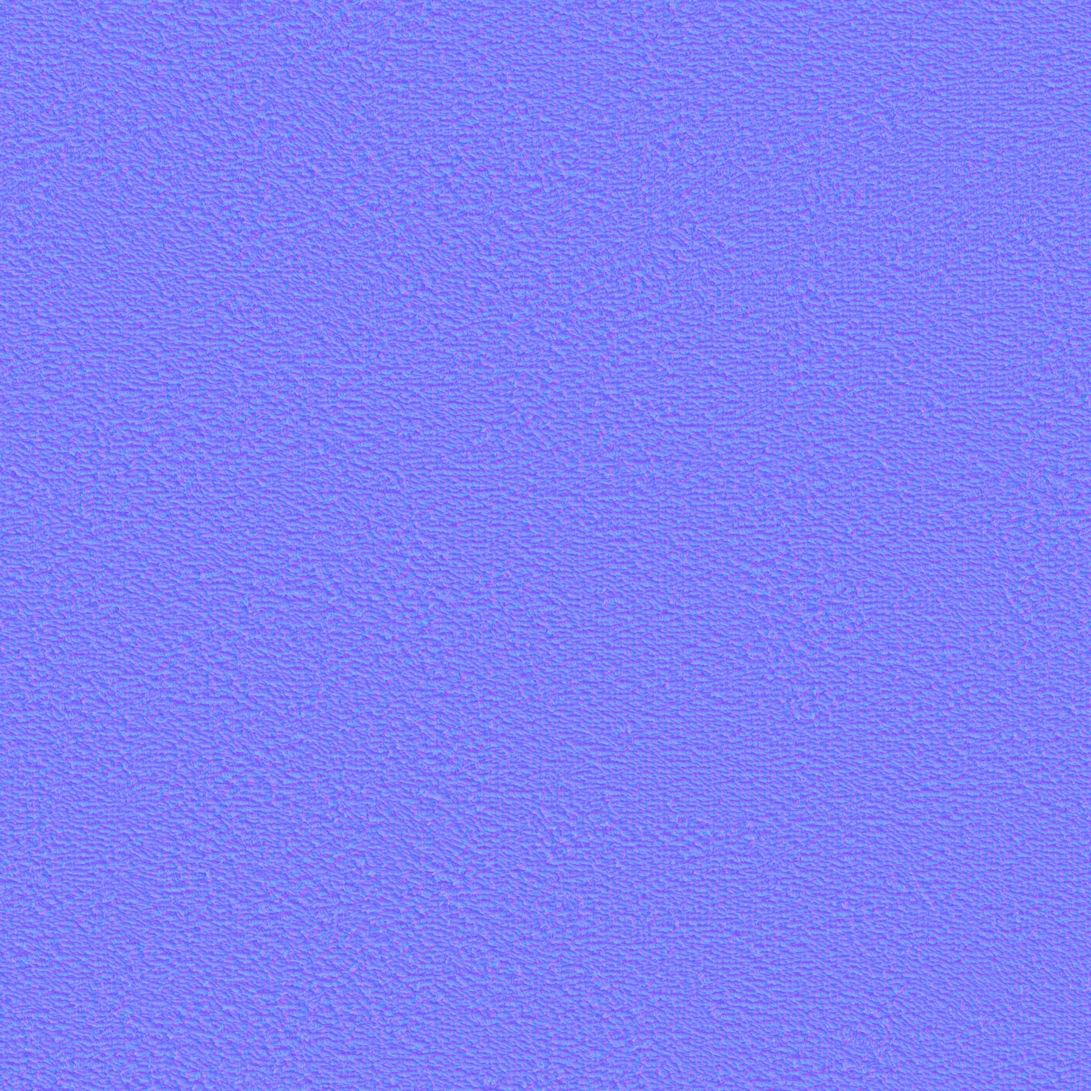
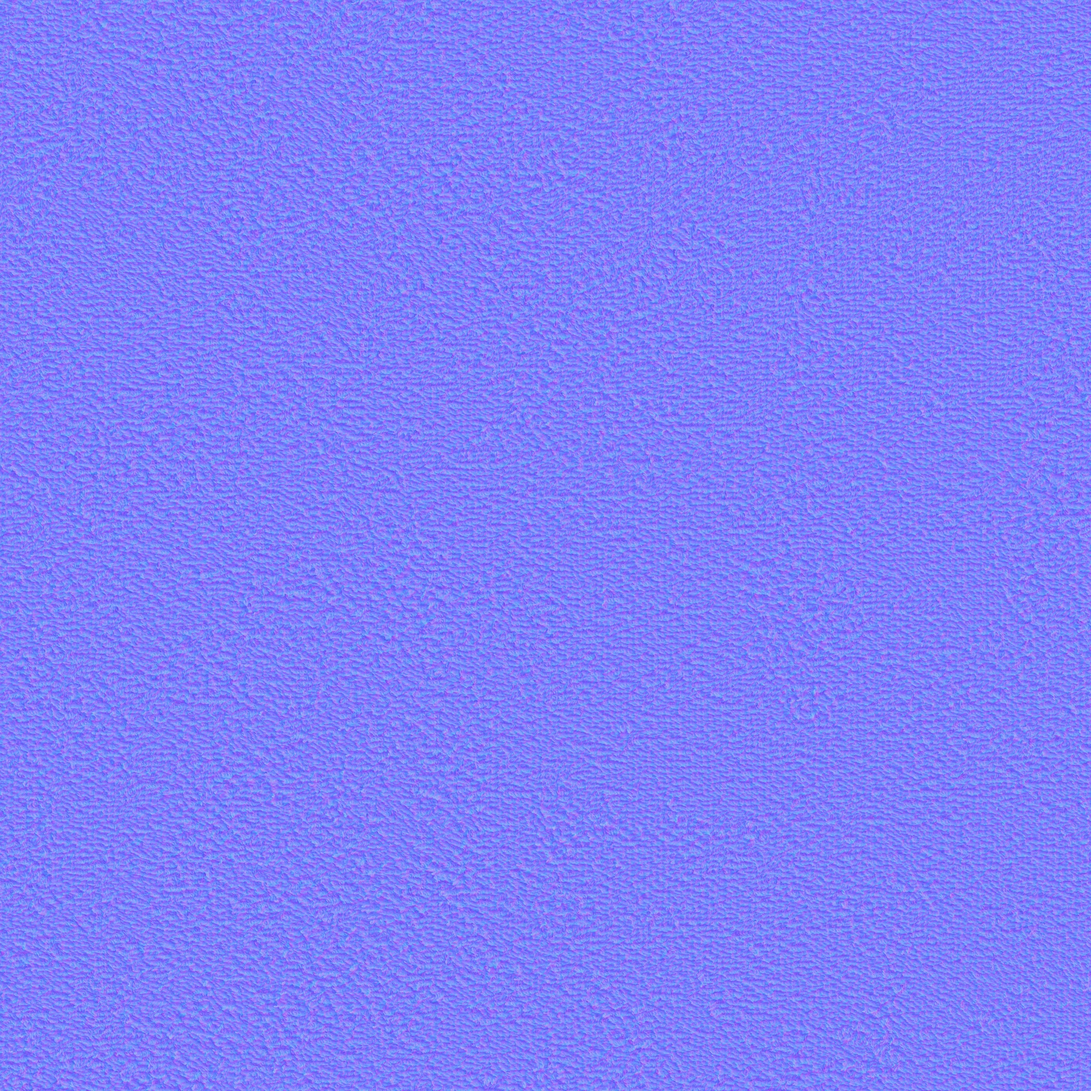
Photograph the coin's metal, and give the leather its 2K grain
The coin now carries ambientCG's Metal007 (CC0) under its baked and
procedural weathering: one RGBA tile with the normal's slopes in the coin's
convention, the roughness and the albedo, the last two scaled to a mean of
half grey so they vary whatever polish and colour each metal has. The
photograph's gold is never used; the shader recolours the tile per metal,
so silver, bronze, copper, iron, electrum and rose gold wear the same
scratches in their own colour. Sampled like the micro tile, by x and z on
the faces and by the distance around and y on the edge, with two whole
tiles around the edge so the wrap has no seam. Three settings — bump, tint
and roughness — say how much of it shows; without the map built the shader
reads a neutral texel and the coin is as it was. Rendered on coin:look for
gold, silver and copper with and without it.

The leather has a 2K variant for the high tier, built from the 4K
download; on the reveal shot its pebble grain resolves where the 1024 map
is smooth, a mean difference of 6 levels across the wall. The felt's 2K
variant is rebuilt from the 4K cloth. The high tier now fetches 5.9MB of
2K maps; the other tiers 1.4MB of 1K ones.

Claude-Session: https://claude.ai/code/session_01DY7GLHKDYbddaKqhU954QH

diff --git a/src/scene/coin-material.ts b/src/scene/coin-material.ts
@@ -63,6 +63,14 @@ export interface CoinSettings {
   pits: number;
   /** The micro tile's strength: the grain, micro-scratches and pores under everything. */
   micro: number;
+  /**
+   * The photographed metal (public/dice/coin-metal.webp, from ambientCG's
+   * Metal007): how much its scratches tilt the normal, vary the tone, and
+   * vary the roughness. Its own colour is not used; each metal's is.
+   */
+  metalBump: number;
+  metalTint: number;
+  metalRough: number;
 }
 
 export const DEFAULT_COIN: CoinSettings = {
@@ -74,7 +82,17 @@ export const DEFAULT_COIN: CoinSettings = {
   patina: 1.0,
   pits: 0.6,
   micro: 1.0,
+  // The photograph's normal is nearly flat — its slopes are a few hundredths —
+  // so it is pushed; its tone and roughness vary by about 5% and are used as
+  // they are, scaled to a mean of one.
+  metalBump: 3.0,
+  metalTint: 1.0,
+  metalRough: 0.5,
 };
+
+/** One tile of the photographed metal across this many coin units on the faces. */
+const COIN_METAL_TILE_UNITS = 2.5;
+const COIN_METAL_SLOPE_MAX = 0.1;
 
 /**
  * What the coin is struck from. Each metal is a reflectance — the colour a
@@ -195,6 +213,11 @@ const COIN_SLOPE_MAX = 1.5;
 const COIN_MICRO_SLOPE_MAX = 0.5;
 /** Micro tiles around the edge; the tile's size follows from the radius. Matches the bake. */
 const COIN_MICRO_TILES_AROUND = 34;
+/**
+ * The photographed metal wraps the edge in whole tiles too: the circumference
+ * is 3.97 units, and at 2.5 a tile that rounds to two.
+ */
+const COIN_METAL_TILES_AROUND = 2;
 
 const COIN_VERTEX_PARS = /* glsl */ `
 varying vec3 vCoinPosition;
@@ -224,6 +247,7 @@ const COIN_FRAGMENT_PARS = /* glsl */ `
 #define COIN_WEAR_RANGE ${COIN_WEAR_RANGE.toFixed(3)}
 #define COIN_SLOPE_MAX ${COIN_SLOPE_MAX.toFixed(3)}
 #define COIN_MICRO_SLOPE_MAX ${COIN_MICRO_SLOPE_MAX.toFixed(3)}
+#define COIN_METAL_SLOPE_MAX ${COIN_METAL_SLOPE_MAX.toFixed(3)}
 varying vec3 vCoinPosition;
 varying vec2 vCoinUv;
 varying vec3 vCoinRadial;
@@ -238,6 +262,11 @@ uniform float uCoinScratches;
 uniform float uCoinPatina;
 uniform float uCoinPits;
 uniform float uCoinMicro;
+uniform sampler2D uCoinMetalMap;
+uniform float uCoinMetalTile;
+uniform float uCoinMetalBump;
+uniform float uCoinMetalTint;
+uniform float uCoinMetalRough;
 uniform float uCoinHalfThickness;
 uniform float uCoinRadius;
 uniform float uCoinMicroTile;
@@ -439,6 +468,15 @@ vec4 coinMicro = uCoinMicro * mix(
   coinSideness
 );
 coinSurface += vec4(coinMicro.xy, 0.0, 0.0);
+// And the photographed metal, sampled the same two ways: its scratches tilt
+// the normal, and its tone and roughness (alpha and blue, each about a mean
+// of one half) vary the metal's own.
+vec2 coinMetalFaceUv = coinP.xz / uCoinMetalTile;
+vec2 coinMetalEdgeUv = vec2((coinAngle / (2.0 * PI)) * float(${COIN_METAL_TILES_AROUND}), coinP.y / uCoinMetalTile);
+vec4 coinMetalTexel = mix(texture2D(uCoinMetalMap, coinMetalFaceUv), texture2D(uCoinMetalMap, coinMetalEdgeUv), coinSideness);
+coinSurface.xy += (coinMetalTexel.rg * 2.0 - 1.0) * COIN_METAL_SLOPE_MAX * uCoinMetalBump;
+float coinMetalTone = mix(1.0, coinMetalTexel.a * 2.0, uCoinMetalTint);
+float coinMetalRough = (coinMetalTexel.b - 0.5) * uCoinMetalRough;
 float coinScratch = uCoinScratches * coinSurface.z;
 float coinPit = uCoinPits * coinSurface.w;
 float coinMicroMark = 0.7 * coinMicro.z + coinMicro.w;
@@ -478,6 +516,7 @@ coinBase *= 1.0 - 0.12 * coinScratch;
 // inside out. This puts the clean field below the relief and the grime below that.
 coinBase *= 1.0 + 0.12 * coinExposed;
 coinBase *= 1.0 - 0.48 * coinCavity;
+coinBase *= coinMetalTone;
 diffuseColor.rgb = coinBase;
 `;
 
@@ -495,6 +534,7 @@ roughnessFactor += 0.16 * coinScratch + 0.3 * coinPit + 0.16 * coinPatina + 0.12
 // and the edge is lit flat by the room, where a tenth of roughness is a big
 // step in brightness and the mottle drew as camouflage.
 roughnessFactor += coinRoughnessDetail(coinP, coinFootprint) * (1.0 - 0.6 * coinSideness);
+roughnessFactor += coinMetalRough;
 roughnessFactor = mix(roughnessFactor, 0.85, coinGrime);
 // Never a true mirror. Much below this the domed edges of the relief, which
 // face every direction, find the exact mirror angle of the spotlight somewhere
@@ -555,6 +595,10 @@ export function createCoinMaterial(
   anisotropy = 8,
 ): CoinMaterial {
   const coin: CoinSettings = { ...DEFAULT_COIN, ...settings };
+  // Until the photographed metal is in, and if it never is: a texel that
+  // tilts nothing and varies nothing.
+  const neutralMetal = new THREE.DataTexture(new Uint8Array([128, 128, 128, 128]), 1, 1, THREE.RGBAFormat);
+  neutralMetal.needsUpdate = true;
   // Clean until the map arrives: a single texel as far from any wall as the map
   // can say.
   const clean = new THREE.DataTexture(new Uint8Array([255, 255, 255, 255]), 1, 1);
@@ -570,6 +614,11 @@ export function createCoinMaterial(
     uCoinRadius: { value: radius },
     uCoinMicroTile: { value: (2 * Math.PI * radius) / COIN_MICRO_TILES_AROUND },
     uCoinMicro: { value: coin.micro },
+    uCoinMetalMap: { value: neutralMetal as THREE.Texture },
+    uCoinMetalTile: { value: COIN_METAL_TILE_UNITS },
+    uCoinMetalBump: { value: coin.metalBump },
+    uCoinMetalTint: { value: coin.metalTint },
+    uCoinMetalRough: { value: coin.metalRough },
     uCoinGrime: { value: coin.grime },
     uCoinPolish: { value: coin.polish },
     uCoinWearAmount: { value: coin.wear },
@@ -644,6 +693,13 @@ export function createCoinMaterial(
       t.wrapT = THREE.RepeatWrapping;
       uniforms.uCoinMicroMap.value = t;
     }),
+    load('coin-metal.webp', THREE.RepeatWrapping, true)
+      .then((t) => {
+        t.wrapT = THREE.RepeatWrapping;
+        uniforms.uCoinMetalMap.value = t;
+      })
+      // Not built: the neutral texel stays, and the coin is as it was.
+      .catch(() => undefined),
   ]).then(() => undefined);
 
   return {
@@ -661,6 +717,9 @@ export function createCoinMaterial(
       uniforms.uCoinScratches.value = coin.scratches;
       uniforms.uCoinPits.value = coin.pits;
       uniforms.uCoinMicro.value = coin.micro;
+      uniforms.uCoinMetalBump.value = coin.metalBump;
+      uniforms.uCoinMetalTint.value = coin.metalTint;
+      uniforms.uCoinMetalRough.value = coin.metalRough;
       applyMetal();
     },
     getCoin: () => ({ ...coin }),

diff --git a/src/assets.ts b/src/assets.ts
@@ -138,7 +138,7 @@ export async function loadTrayTextures(anisotropy: number, large = false): Promi
     return { map, normalMap, armMap };
   };
   try {
-    const [leather, felt, wood] = await Promise.all([surface('leather', false), surface('felt', true), surface('wood', true)]);
+    const [leather, felt, wood] = await Promise.all([surface('leather', true), surface('felt', true), surface('wood', true)]);
     return { leather, felt, wood };
   } catch {
     return null;

diff --git a/README.md b/README.md
@@ -639,6 +639,31 @@ all three channels converge on white. The coin's environment intensity is a
 quarter of what the dice use, measured to the point where the relief stopped
 desaturating.
 
+### Its metal, photographed
+
+Under the baked and procedural weathering there is now a photographed metal:
+ambientCG's [Metal007](https://ambientcg.com/view?id=Metal007) (CC0), a
+polished gold with faint scratches. `tools/build-textures.mjs` packs it into
+one RGBA tile, `public/dice/coin-metal.webp`: the normal's slopes in the
+coin's own convention in red and green, the roughness in blue and the albedo
+in alpha, the last two scaled to a mean of half grey so they read as
+variation about whatever the metal's own polish and colour are. The
+photograph's gold is never used — the coin shader recolours the tile with
+each metal's base, so the silver, bronze, copper, iron, electrum and rose
+gold all wear the same scratches in their own colour.
+
+It is sampled the way the micro tile is, by x and z on the faces and by the
+distance around and y on the edge, with one tile per 2.5 units on the faces
+and two whole tiles around the edge so the wrap has no seam. Three settings
+say how much of it shows: `metalBump` tilts the normal by its scratches
+(pushed to 3, since the photograph's slopes are a few hundredths),
+`metalTint` varies the tone by its streaks (about 5%), and `metalRough` its
+roughness (half of the photograph's spread). Measured on `coin:look` for
+gold, silver and copper, the field means move by one or two levels; what it
+adds is the smudged, handled look of the streaks across the field and rim.
+Without the map built the shader reads a neutral texel and the coin is as it
+was.
+
 ### Its physics
 
 A coin is a round cylinder to the solver, not a convex hull of its mesh: the mesh
@@ -1477,7 +1502,7 @@ pose, not the antialiasing.
 | `npm run dev` | dev server |
 | `npm run build` | typecheck + production build |
 | `npm run assets` | regenerate `public/dice/*` from the source GLB |
-| `npm run textures` | build the tray's WebP maps from Poly Haven downloads (`--download`, or `--source <dir>`) |
+| `npm run textures` | build the tray's and the coin's WebP maps from Poly Haven and ambientCG downloads (`--download`, or `--source <dir>`) |
 | `npm run verify` | values, reading, camera and physics |
 | `npm run verify:values` | opposite-face-sum invariant on the tables |
 | `npm run verify:reading` | every slot reads back from every yaw, and pool resolution |
@@ -1539,11 +1564,14 @@ read as felt nap; the leather grain is ten times finer than life and reads as
 fine-grained leather; the planks stay near life size. The sources are 2K —
 the leather 51.2, the cloth 55.8 and the wood 37.2 pixels a centimetre —
 which at life-size tiling would be under 30 texels a centimetre, hence the
-smaller tiles. The 1024 maps serve every tier; the felt and the wood also
-have 2048 variants for the high tier, which tile twice as large for the same
-density and half the repeats, the wood at its true 55cm. The ARM map is 512
-on all of them, because roughness is smooth at that scale. Altogether about
-5MB, of which the 2K variants are 3.4MB that only the high tier fetches.
+smaller tiles. The 1024 maps serve every tier; all three also have 2048
+variants for the high tier, built from the 4K leather and cloth downloads,
+which tile twice as large for the same density and half the repeats, the
+wood at its true 55cm. The leather's was tested against its 1024 map on the
+reveal shot: the pebble grain resolves where the 1024 map is smooth, a mean
+difference of 6 levels across the wall. The ARM map is 512 on all of them,
+because roughness is smooth at that scale. Altogether about 7MB, of which
+the 2K variants are 5.9MB that only the high tier fetches.
 
 The cloth was photographed in a saturated blue, and a material tint can only
 darken a map, never pull it toward the slate the dice and swatches were tuned
@@ -1555,6 +1583,9 @@ tinted: the photograph is dark already and the vignette and fog take the
 edges down further.
 
 ## Credits
+
+Coin metal: [Metal007](https://ambientcg.com/view?id=Metal007) from
+[ambientCG](https://ambientcg.com), CC0.
 
 Tray surfaces: [brown_leather](https://polyhaven.com/a/brown_leather),
 [terry_cloth](https://polyhaven.com/a/terry_cloth) and
